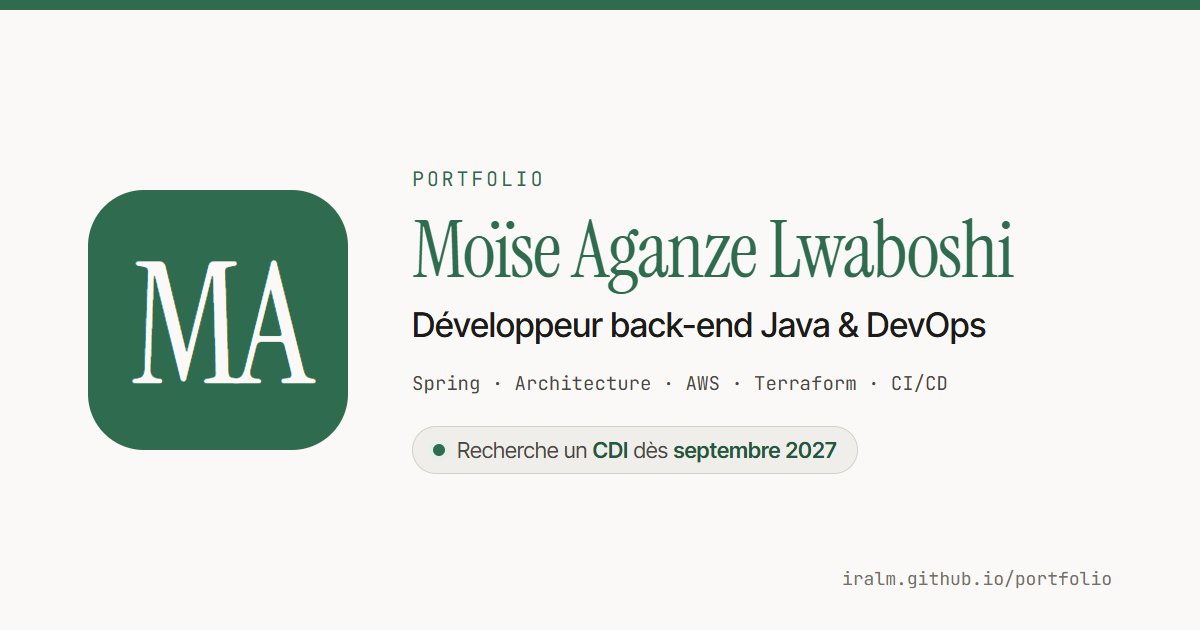
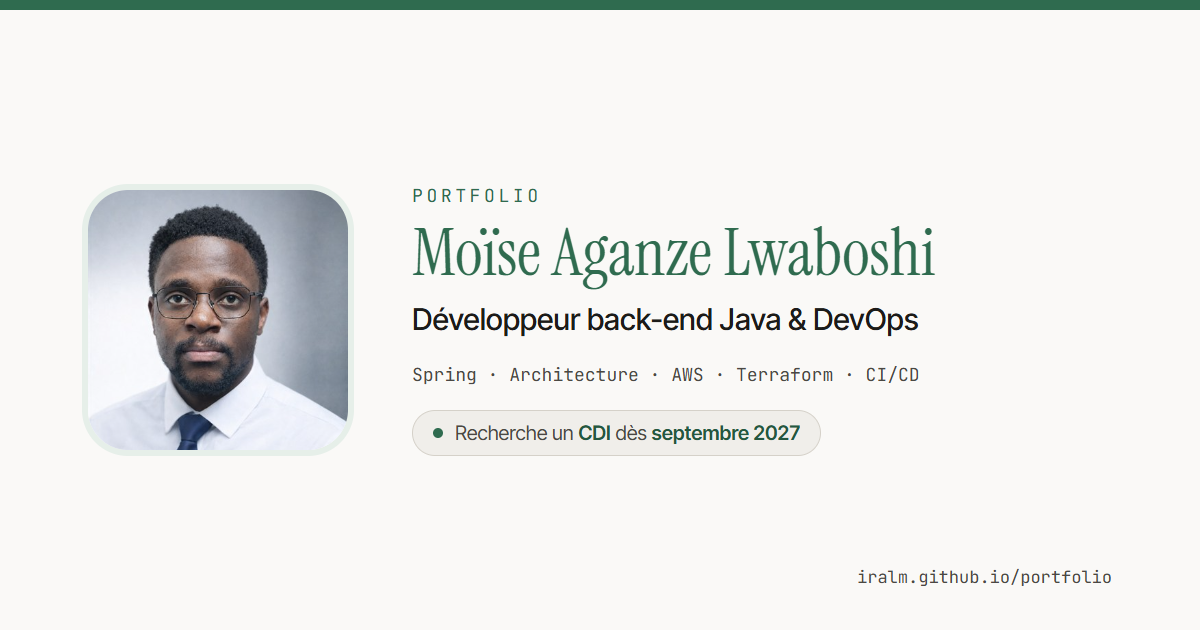
feat(partage): met ma photo dans l'aperçu Open Graph
L'image de partage affichait le monogramme « MA », le même que le favicon.
Elle montre désormais la photo de profil. L'image est générée depuis un
modèle HTML (tools/og-image.html) par « npm run og-image », pour pouvoir
la refaire si la photo ou le titre changent.

diff --git a/tools/og-image.html b/tools/og-image.html
@@ -1,0 +1,108 @@
+<!doctype html>
+<!-- Modèle de l'image de partage (Open Graph, 1200 × 630). Rendu par tools/og-image.mjs. -->
+<html lang="fr">
+  <head>
+    <meta charset="utf-8" />
+    <title>Image de partage</title>
+    <link
+      href="https://fonts.googleapis.com/css2?family=Instrument+Serif&family=Inter+Tight:wght@400;500;600&family=JetBrains+Mono:wght@400&display=block"
+      rel="stylesheet"
+    />
+    <style>
+      * {
+        margin: 0;
+        padding: 0;
+        box-sizing: border-box;
+      }
+      body {
+        width: 1200px;
+        height: 630px;
+        background: #faf9f7;
+        border-top: 10px solid #2f6b4f;
+        font-family: 'Inter Tight', sans-serif;
+        color: #1c1b19;
+        display: flex;
+        align-items: center;
+        gap: 64px;
+        padding: 0 88px;
+        position: relative;
+      }
+      .photo {
+        width: 260px;
+        height: 260px;
+        border-radius: 40px;
+        object-fit: cover;
+        object-position: 50% 18%;
+        flex-shrink: 0;
+        box-shadow: 0 0 0 6px #e6efe9;
+      }
+      .label {
+        font-family: 'JetBrains Mono', monospace;
+        font-size: 18px;
+        letter-spacing: 0.2em;
+        color: #2f6b4f;
+      }
+      h1 {
+        font-family: 'Instrument Serif', serif;
+        font-weight: 400;
+        font-size: 66px;
+        line-height: 1.1;
+        color: #2f6b4f;
+        margin: 10px 0 12px;
+      }
+      .role {
+        font-size: 30px;
+        font-weight: 500;
+      }
+      .tags {
+        font-family: 'JetBrains Mono', monospace;
+        font-size: 18px;
+        color: #4a4843;
+        margin: 26px 0 24px;
+      }
+      .status {
+        display: inline-flex;
+        align-items: center;
+        gap: 12px;
+        padding: 10px 20px;
+        border: 1px solid #d5d1c9;
+        border-radius: 999px;
+        background: #f0eeea;
+        font-size: 20px;
+        color: #4a4843;
+      }
+      .status::before {
+        content: '';
+        width: 10px;
+        height: 10px;
+        border-radius: 50%;
+        background: #2f6b4f;
+      }
+      .status strong {
+        color: #245740;
+        font-weight: 600;
+      }
+      .url {
+        position: absolute;
+        right: 88px;
+        bottom: 42px;
+        font-family: 'JetBrains Mono', monospace;
+        font-size: 17px;
+        color: #4a4843;
+      }
+    </style>
+  </head>
+  <body>
+    <img class="photo" src="../images/photoCV.jpg" alt="" />
+    <div>
+      <div class="label">PORTFOLIO</div>
+      <h1>Moïse Aganze Lwaboshi</h1>
+      <div class="role">Développeur back-end Java &amp; DevOps</div>
+      <div class="tags">Spring · Architecture · AWS · Terraform · CI/CD</div>
+      <div class="status">
+        <span>Recherche un <strong>CDI</strong> dès <strong>septembre 2027</strong></span>
+      </div>
+    </div>
+    <div class="url">iralm.github.io/portfolio</div>
+  </body>
+</html>

diff --git a/index.html b/index.html
@@ -19,7 +19,7 @@
   <meta property="og:image:type" content="image/png">
   <meta property="og:image:width" content="1200">
   <meta property="og:image:height" content="630">
-  <meta property="og:image:alt" content="Moïse Aganze Lwaboshi, développeur back-end Java &amp; DevOps : Spring, architecture, AWS, Terraform, CI/CD. Recherche un CDI dès septembre 2027.">
+  <meta property="og:image:alt" content="Photo de Moïse Aganze Lwaboshi, développeur back-end Java &amp; DevOps : Spring, architecture, AWS, Terraform, CI/CD. Recherche un CDI dès septembre 2027.">
   <meta name="twitter:card" content="summary_large_image">
 
   <link rel="icon" href="favicon.ico" sizes="48x48">

diff --git a/src/layout.html b/src/layout.html
@@ -19,7 +19,7 @@
   <meta property="og:image:type" content="image/png">
   <meta property="og:image:width" content="1200">
   <meta property="og:image:height" content="630">
-  <meta property="og:image:alt" content="Moïse Aganze Lwaboshi, développeur back-end Java &amp; DevOps : Spring, architecture, AWS, Terraform, CI/CD. Recherche un CDI dès septembre 2027.">
+  <meta property="og:image:alt" content="Photo de Moïse Aganze Lwaboshi, développeur back-end Java &amp; DevOps : Spring, architecture, AWS, Terraform, CI/CD. Recherche un CDI dès septembre 2027.">
   <meta name="twitter:card" content="summary_large_image">
 
   <link rel="icon" href="favicon.ico" sizes="48x48">
